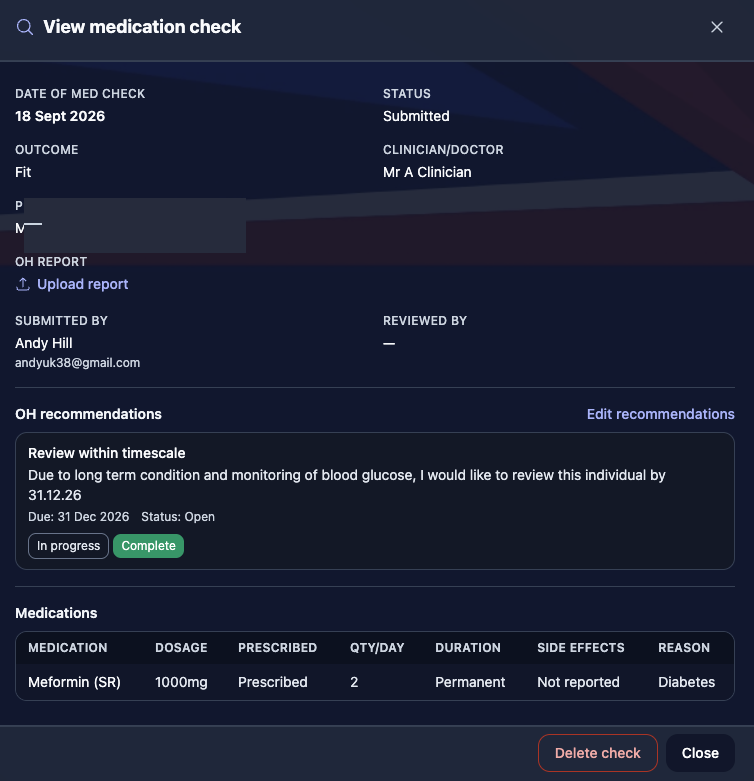
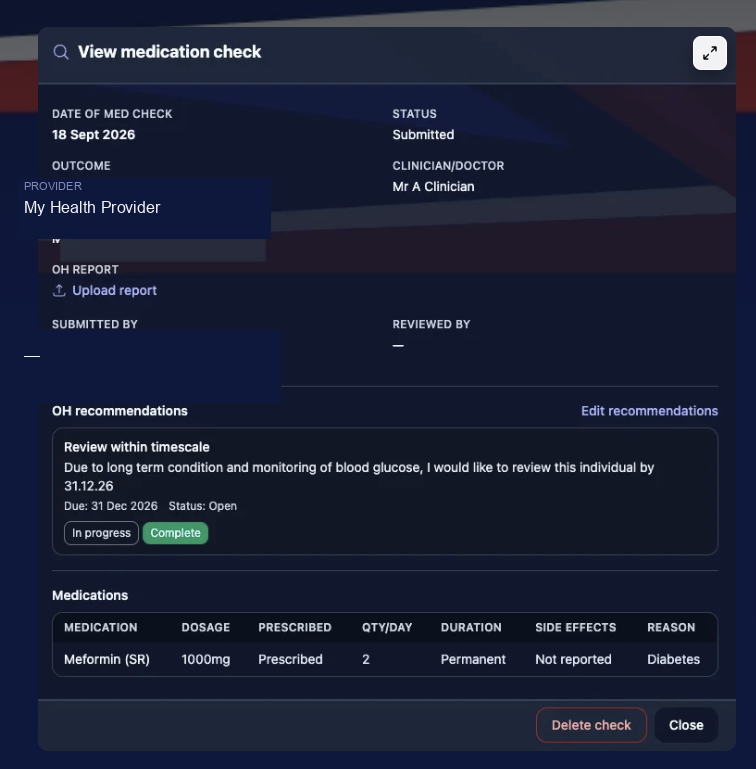
Fix Medication Checks view screenshot and refine tracking copy.
Redact personal details, repair the outcome and provider display, and replace tracking tiles with prose on deletion permissions.

diff --git a/products/medication-checks.html b/products/medication-checks.html
@@ -323,9 +323,9 @@
       <div class="container">
         <div class="page-section__aside page-section__aside--reverse">
           <div class="page-section__aside-media">
-        <figure class="shot reveal" style="max-width: 754px">
+        <figure class="shot reveal" style="max-width: 756px">
           <div class="shot__frame">
-            <img src="../images/screens/medical/medication-check-view.png?v=253497647" alt="View medication check — submitted record with OH recommendations and medications." width="754" height="781" loading="lazy" decoding="async" />
+            <img src="../images/screens/medical/medication-check-view.png?v=253497647" alt="View medication check — submitted record with OH recommendations and medications." width="756" height="769" loading="lazy" decoding="async" />
           </div>
         </figure>
 
@@ -335,28 +335,8 @@
           <p>Once a medication check is submitted, it becomes a dated record on the employee's medical tab — not a form sitting in someone's inbox. Status, outcome, clinician and provider are held together so the fitness position is visible at a glance.</p>
           <p>Managers can see who submitted the check and who reviewed it. OH recommendations sit on the same record with a due date and completion status, so follow-up does not rely on a separate tracker.</p>
           <p>Medications are stored in a structured table — dosage, quantity, duration and reason — which means the data is searchable and available for reporting alongside other medical compliance measures.</p>
-          <div class="spec-tiles" role="list">
-            <article class="spec-tile" style="--spec-tile-accent: #38bdf8" role="listitem">
-              <span class="spec-tile__index" aria-hidden="true">01</span>
-              <h3 class="spec-tile__title">Submitted status on record</h3>
-              <p class="spec-tile__detail">with outcome, clinician and provider visible together.</p>
-            </article>
-            <article class="spec-tile" style="--spec-tile-accent: #f59e0b" role="listitem">
-              <span class="spec-tile__index" aria-hidden="true">02</span>
-              <h3 class="spec-tile__title">OH recommendations tracked</h3>
-              <p class="spec-tile__detail">with due dates and completion status on the check.</p>
-            </article>
-            <article class="spec-tile" style="--spec-tile-accent: #34d399" role="listitem">
-              <span class="spec-tile__index" aria-hidden="true">03</span>
-              <h3 class="spec-tile__title">Structured medication data</h3>
-              <p class="spec-tile__detail">ready for workforce reporting and assurance review.</p>
-            </article>
-            <article class="spec-tile" style="--spec-tile-accent: #a78bfa" role="listitem">
-              <span class="spec-tile__index" aria-hidden="true">04</span>
-              <h3 class="spec-tile__title">Review trail retained</h3>
-              <p class="spec-tile__detail">— submitted by and reviewed by captured on each check.</p>
-            </article>
-          </div>
+          <p>Deleting a check is restricted to company administrators, or to users who have been granted that permission under Roles &amp; Permissions by a company administrator.</p>
+
           </div>
         </div>
       </div>
